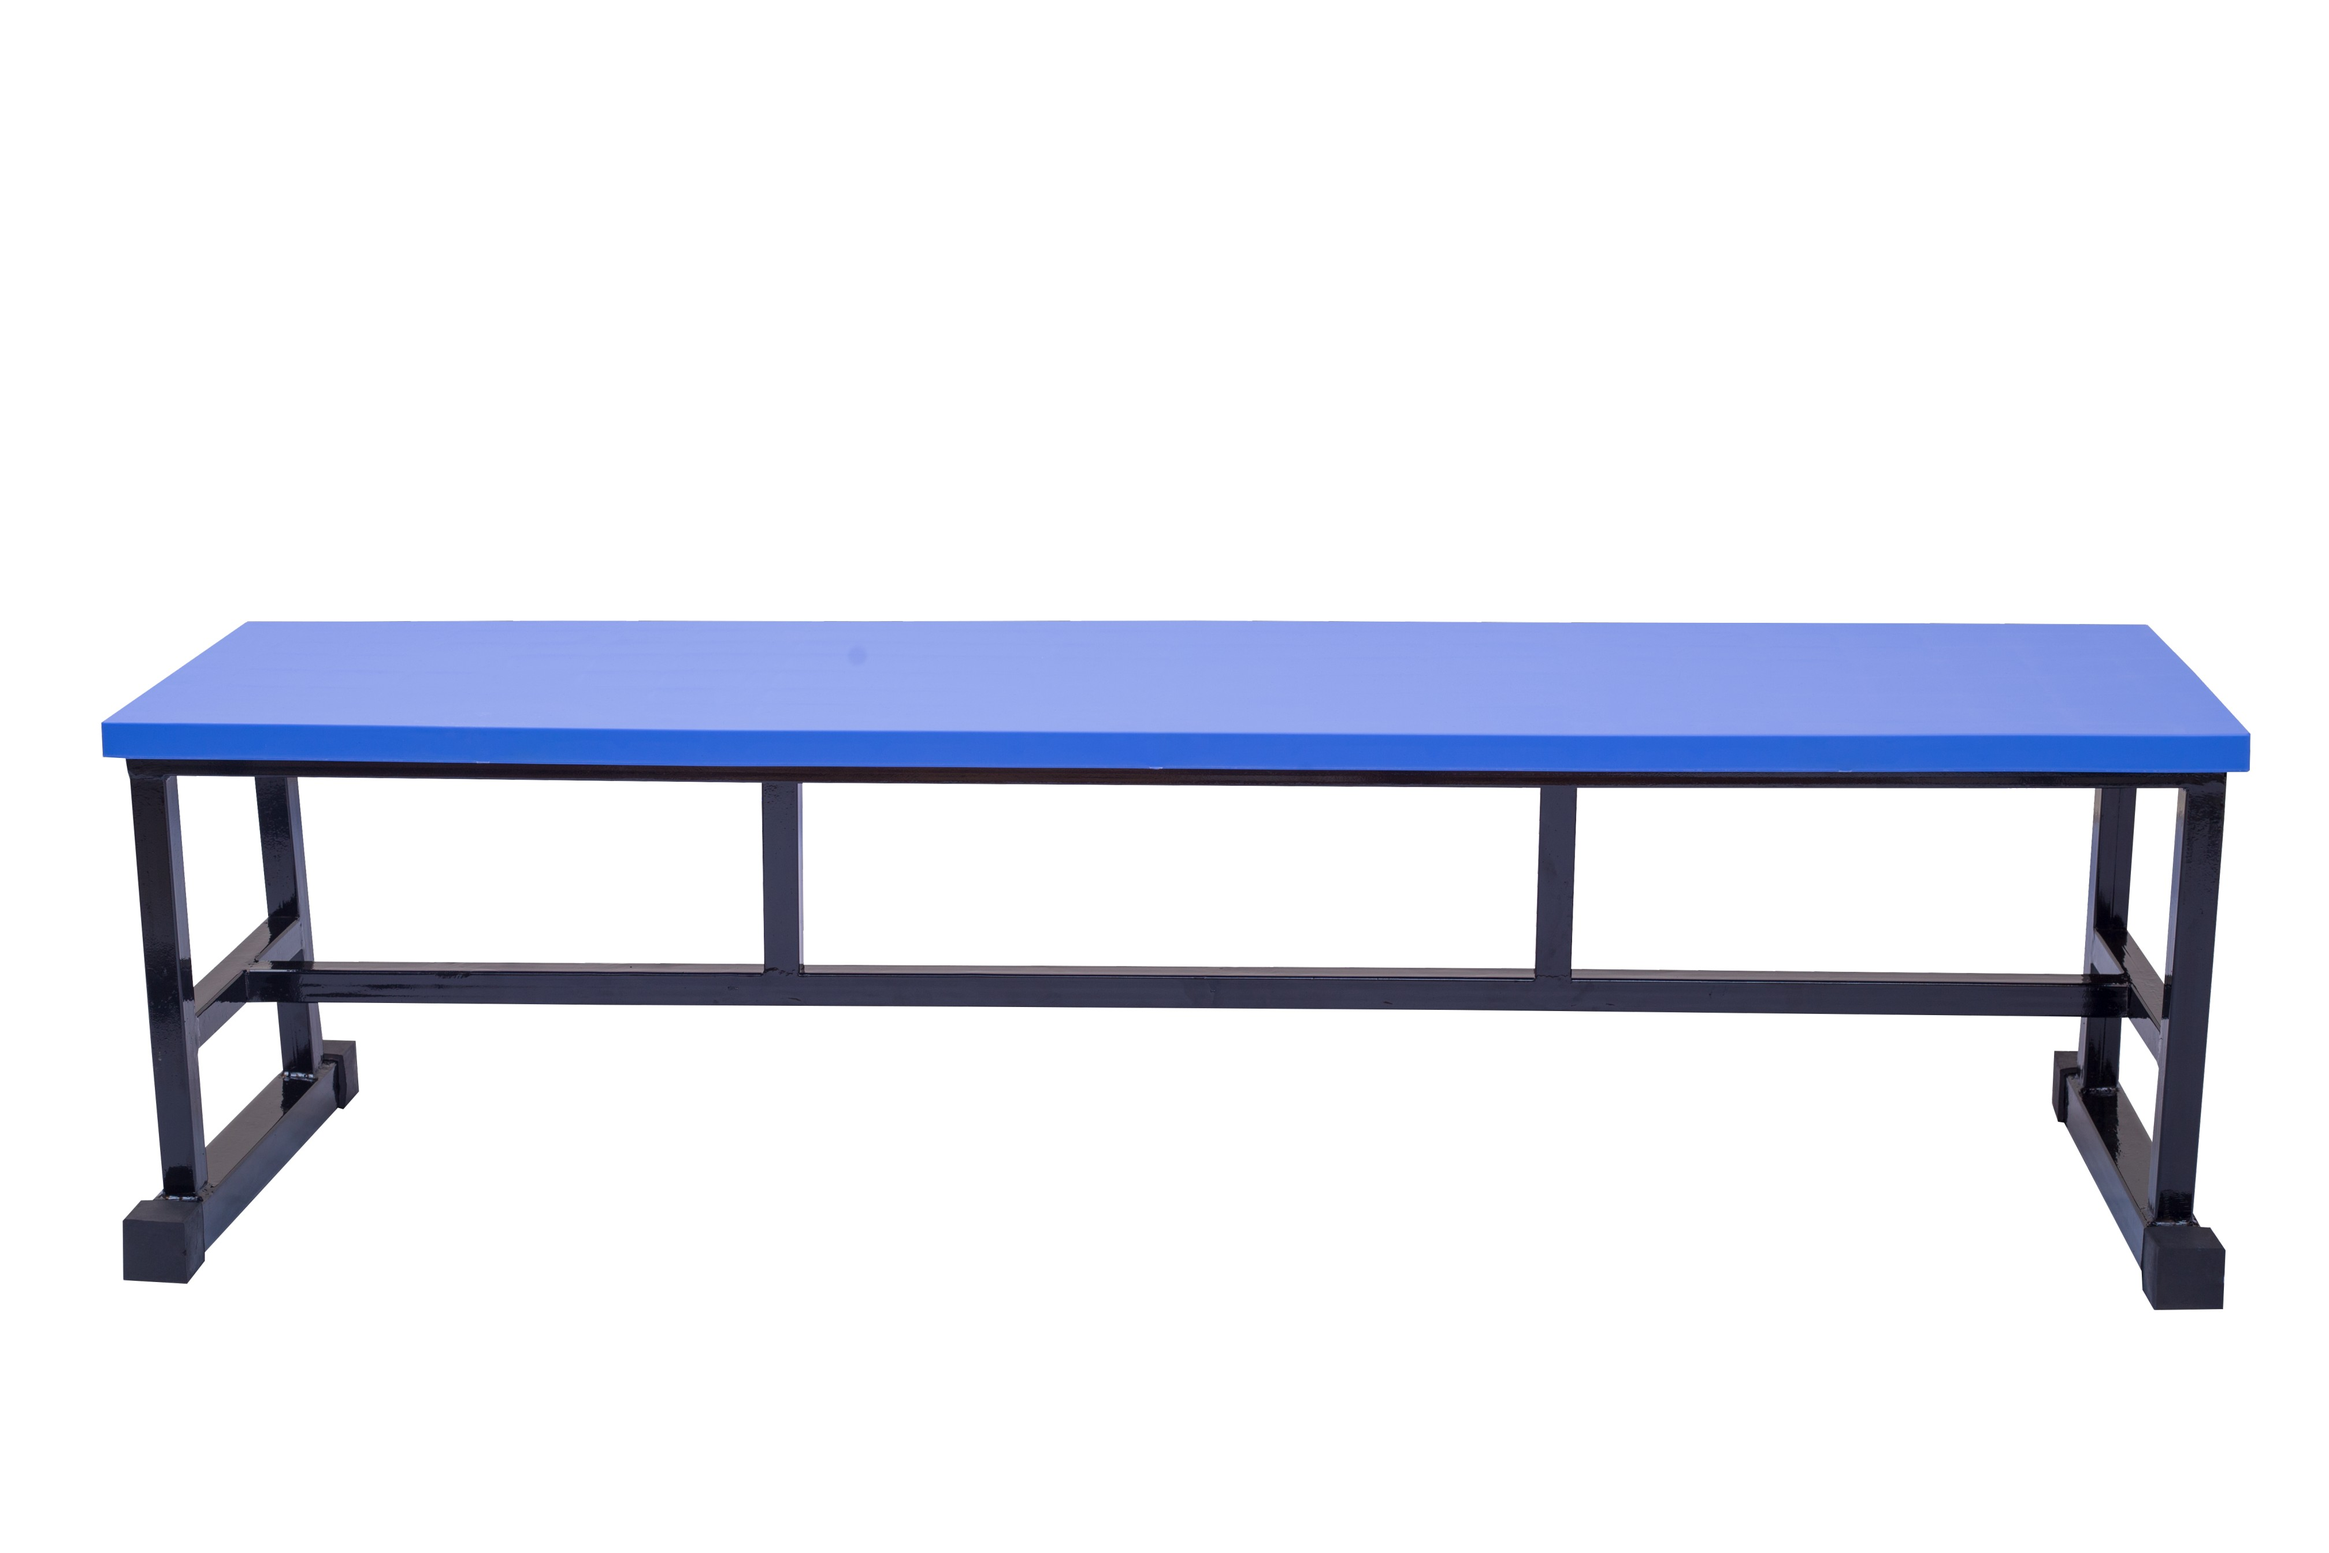
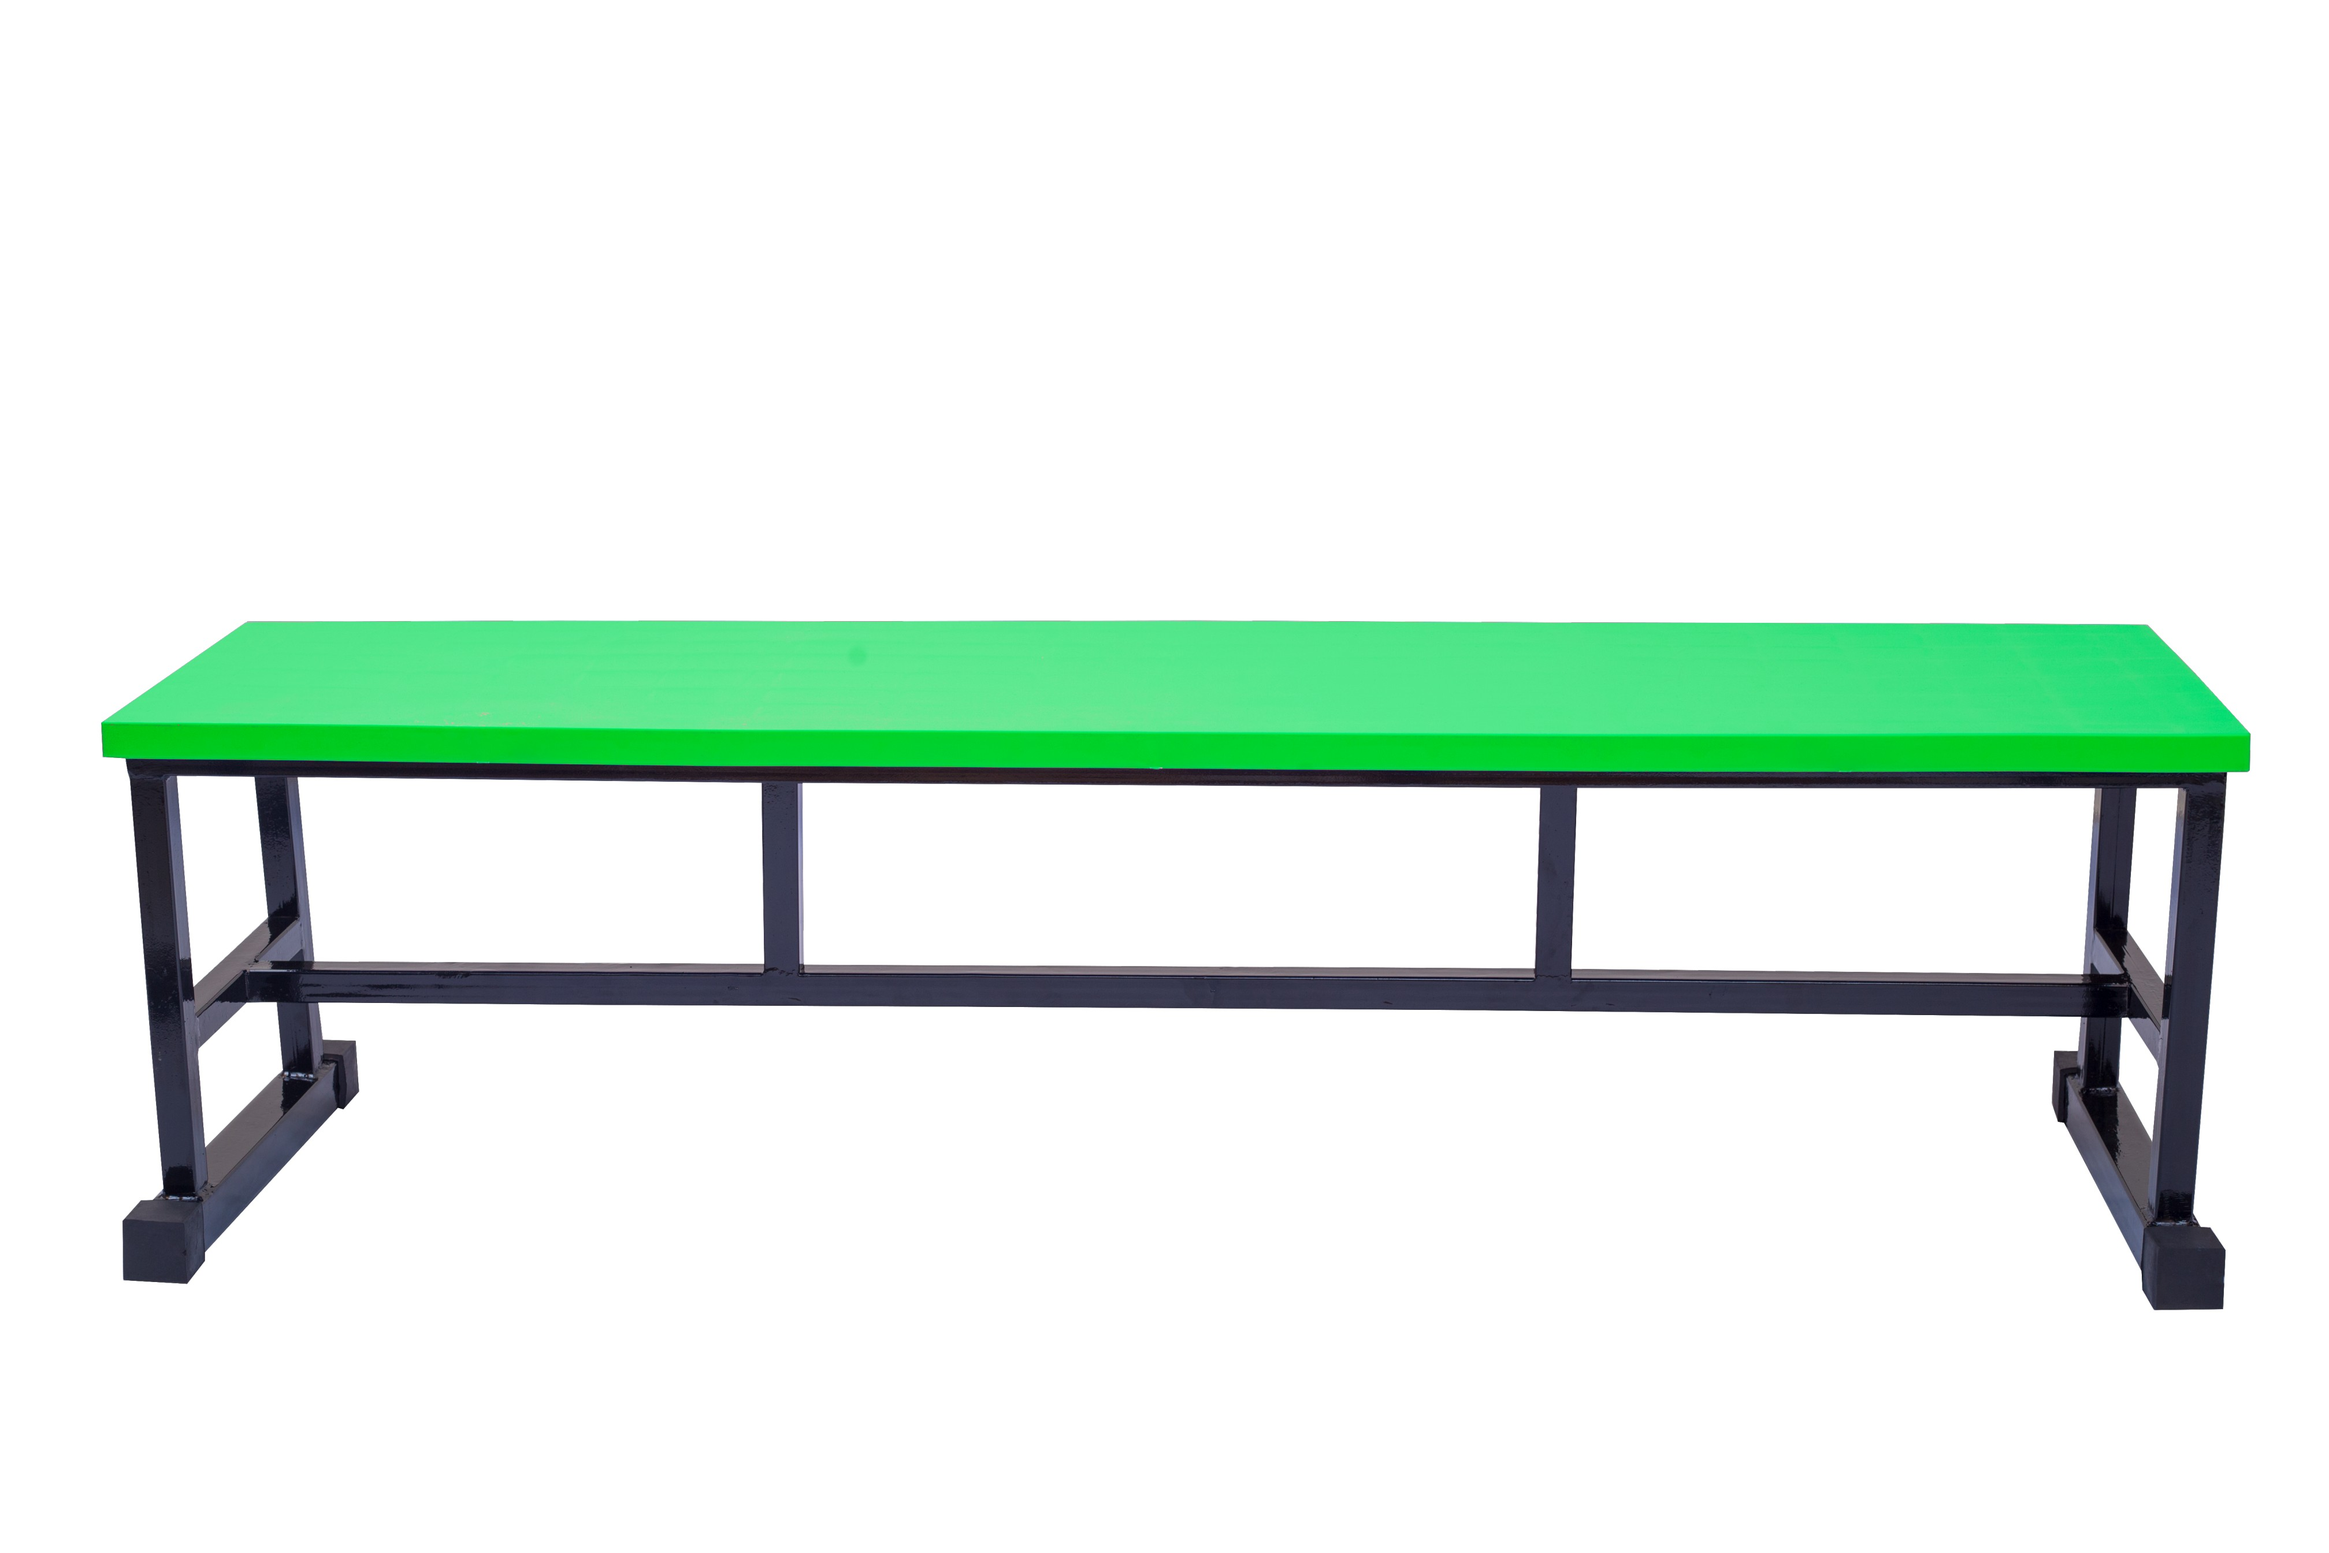
swghvsafghv

Changed region(s): [[0.031, 0.375, 0.9923, 0.5]]

diff --git a/src/components/Portfolio/PortfolioImgApi.jsx b/src/components/Portfolio/PortfolioImgApi.jsx
@@ -2678,7 +2678,7 @@ const portfolioItems = [
     id: 251,
     title: "Low Bench",
     code: "TFETO-031",
-    color: "Brick Red/ Deep Blue/ Deep Green",
+    color: "#ba5645/#013220/#05014a",
     size: "Normal/ Extra Hieght/ Special Extra Height",
     category: "lged",
     imgSrc: lged8,
@@ -2688,7 +2688,7 @@ const portfolioItems = [
     id: 252,
     title: "High Bench",
     code: "TFETO-032",
-    color: "Brick Red/ Deep Blue/ Deep Green",
+    color: "#ba5645/#013220/#05014a",
     size: "Normal/ Extra Hieght/ Special Extra Height",
     category: "lged",
     imgSrc: lged7,
@@ -2698,7 +2698,7 @@ const portfolioItems = [
     id: 253,
     title: "Bench Set",
     code: "TFETO-031",
-    color: "Brick Red/ Deep Blue/ Deep Green",
+    color: "#ba5645/#013220/#05014a",
     size: "Normal/ Extra Hieght/ Special Extra Height",
     category: "lged",
     imgSrc: lged1,
@@ -2747,7 +2747,7 @@ const portfolioItems = [
     id: 254,
     title: "Teacher Table",
     code: "TFETO-031",
-    color: "Brick Red/Deep Blue/Orange/Black",
+    color: "#ba5645/#05014a/orange/#000",
     size: "Normal/ Extra Hieght/ Special Extra Height",
     category: "lged",
     imgSrc: lged10,
@@ -2757,13 +2757,13 @@ const portfolioItems = [
     id: 255,
     title: "Teacher Chair",
     code: "TFETO-031",
-    color: "Brick Red/Deep Blue/Orange/Black",
+    color: "#ba5645/#05014a/orange/#000",
     size: "550mm(L)X515mm(W)XH850mm(H)",
     category: "lged",
     imgSrc: lged11,
   },
 
-  //             upvc
+   //   ///                                            upvc
   {
     id: 301,
     category: "upvc",
